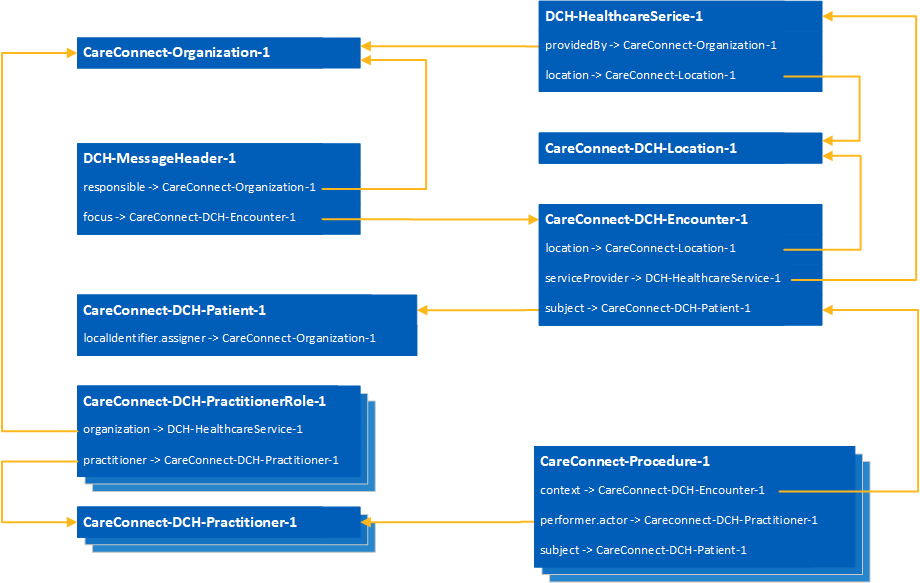
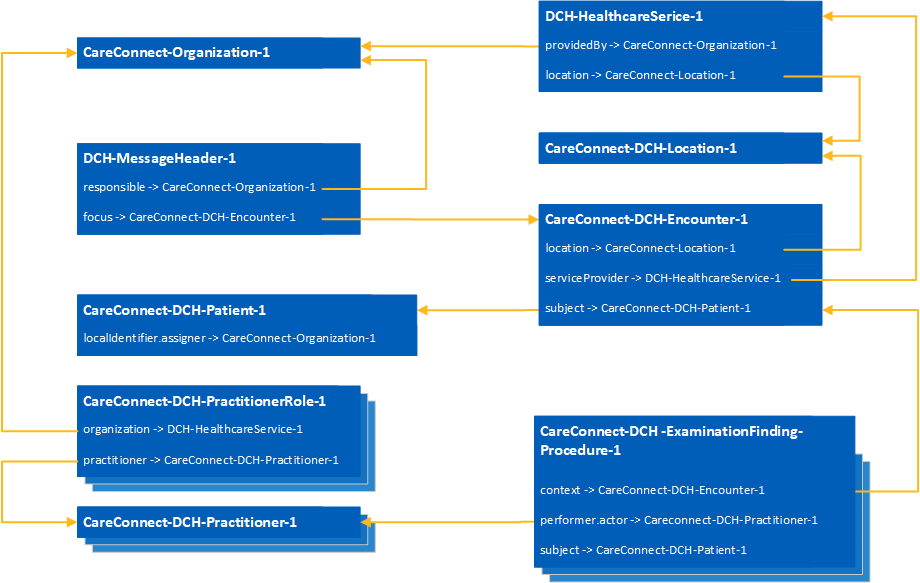
Completed IG updates for initial 5 messages

Changed region(s): [[0.5783, 0.7101, 0.9435, 0.8027], [0.8522, 0.8336, 0.913, 0.8645]]

diff --git a/pages/explore/explore_examination_findings.md b/pages/explore/explore_examination_findings.md
@@ -18,7 +18,7 @@ The following FHIR profiles are used to form the Examination Findings Event Mess
 - [CareConnect-Location-1](https://fhir.hl7.org.uk/STU3/StructureDefinition/CareConnect-Location-1)
 - [CareConnect-DCH-Practitioner-1](https://fhir.nhs.uk/STU3/StructureDefinition/CareConnect-DCH-Practitioner-1)
 - [CareConnect-DCH-PractitionerRole-1](https://fhir.nhs.uk/STU3/StructureDefinition/CareConnect-DCH-PractitionerRole-1)
-- [CareConnect-Procedure-1](https://fhir.nhs.uk/STU3/StructureDefinition/CareConnect-Procedure-1)
+- [CareConnect-DCH-ExaminationFinding-Procedure-1](https://fhir.nhs.uk/STU3/StructureDefinition/CareConnect-DCH-ExaminationFinding-Procedure-1)
 
 ### Examination Findings Event data item mapping to FHIR profiles ###
 
@@ -30,9 +30,9 @@ The Child Health Event data items are fulfilled by elements within the FHIR reso
 | ODS Site Code                                   | CareConnect-Organization-1.identifier                                                       | Mandatory                   |
 | Professional Name                               | CareConnect-DCH-Practitioner-1.name                                                             | Mandatory                   |
 | SDS Job Role Name                               | CareConnect-DCH-PractitionerRole-1.code (SDS Job Role Name)                                     | Mandatory                   |
-| Examination                                     | CareConnect-Procedure-1.code.coding.code                    | Required                    |
-| Examination Text                                | CareConnect-Procedure-1.code.text                    | Required                    |
-| Examination Finding                             | CareConnect-Procedure-1.outcome.coding.code                 | Required                    |
+| Examination                                     | CareConnect-DCH-ExaminationFinding-Procedure-1.code.coding.code                    | Required                    |
+| Examination Text                                | CareConnect-DCH-ExaminationFinding-Procedure-1.code.text                    | Required                    |
+| Examination Finding                             | CareConnect-DCH-ExaminationFinding-Procedure-1.outcome.coding.code                 | Required                    |
 
 ### Linkage Diagram ###
 
@@ -40,7 +40,8 @@ The Child Health Event data items are fulfilled by elements within the FHIR reso
 
 ### Examination Findings XML Example ###
 
-
+<script src="https://gist.github.com/IOPS-DEV/c64035456e26959021847c204a5ab57d.js"></script>
 
 ### Examination Findings JSON Example ###
 
+<script src="https://gist.github.com/IOPS-DEV/232228535fe1ad5d01eb8f6953efa13c.js"></script>

diff --git a/pages/explore/explore_feeding_status.md b/pages/explore/explore_feeding_status.md
@@ -34,7 +34,8 @@ The Child Health Event data items are fulfilled by elements within the FHIR reso
 | Feeding Concerns                             | DCH-FeedingStatus-QuestionnaireResponse-1.item.feedingConcerns        | Optional                   |
 
 ### Reference Linkage Diagram ###
-To be added
+
+![Feeding Status Linkage Diagram](../images/explore/FeedingStatus.png)
 
 ### Examples ###
 

diff --git a/pages/explore/explore_birth_details.md b/pages/explore/explore_birth_details.md
@@ -53,7 +53,8 @@ The Child Health Event data items are fulfilled by elements within the FHIR reso
 | Identical Twin Indicator	      | CareConnect-DCH-IdenticalTwinIndicator-Observation-1.code               | Optional                    |
 
 ### Reference Linkage Diagram ###
-To be added
+
+![Birth Details Linkage Diagram](../images/explore/BirthDetails.png)
 
 ### Examples ###
 

diff --git a/pages/explore/explore_problem_list.md b/pages/explore/explore_problem_list.md
@@ -39,7 +39,8 @@ The Child Health Event data items are fulfilled by elements within the FHIR reso
 
 
 ### Reference Linkage Diagram ###
-To be added
+
+![Problem List Linkage Diagram](../images/explore/ProblemList.png)
 
 ### Problem List Bundle XML Example ###
 
